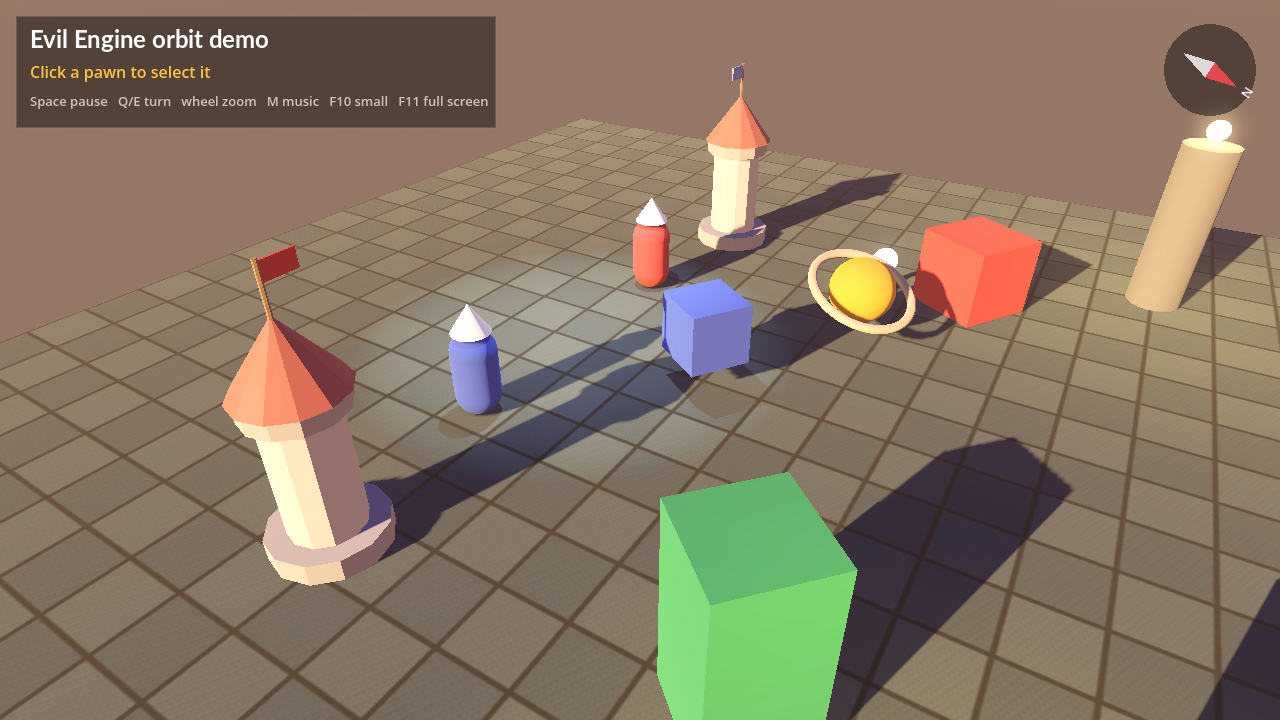
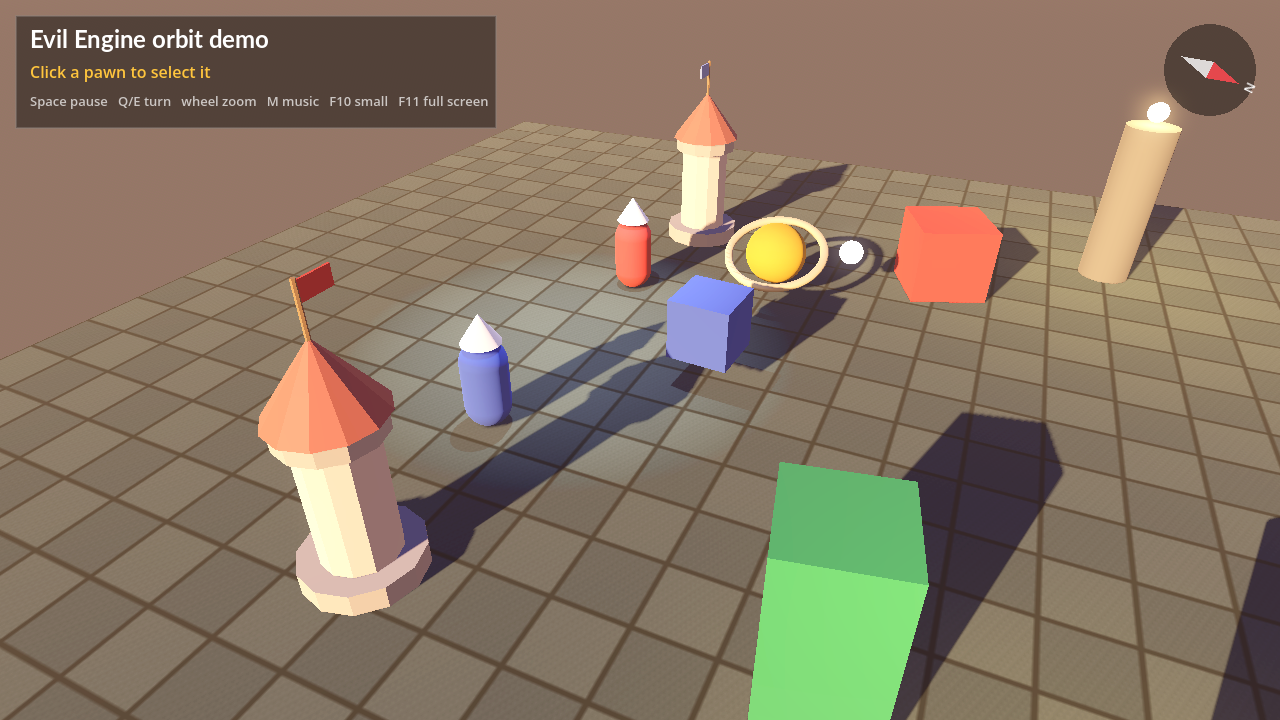
R27: no effects on characters, only what Blender made (0.4.2)

Changed region(s): [[0.0, 0.0917, 1.0, 1.0], [0.9375, 0.0917, 0.9688, 0.1222], [0.125, 0.9167, 0.1562, 0.9472]]

diff --git a/src/10_Characters/Evil.Engine.Characters/Look/CharacterLook.cs b/src/10_Characters/Evil.Engine.Characters/Look/CharacterLook.cs
@@ -1,5 +1,4 @@
 using Godot;
-using Vector3 = System.Numerics.Vector3;
 
 namespace Evil.Engine.Characters;
 
@@ -11,8 +10,6 @@ internal sealed class CharacterLook
     private readonly SurfaceShader _shader;
     private readonly PictureBook _pictures;
     private IReadOnlyDictionary<string, string> _swaps = NoSwaps;
-    private Vector3 _washColour;
-    private float _wash;
 
     public CharacterLook(SurfaceShader shader, PictureBook pictures)
     {
@@ -39,7 +36,6 @@ internal sealed class CharacterLook
         {
             SurfaceLook surface = new SurfaceLook(part.Surfaces[index], _shader.Native, _pictures);
             surface.Show(_swaps);
-            surface.Wash(_washColour, _wash);
             mesh.SetSurfaceOverrideMaterial(index, surface.Material);
             surfaces.Add(surface);
         }
@@ -57,19 +53,6 @@ internal sealed class CharacterLook
             foreach (SurfaceLook surface in surfaces)
             {
                 surface.Show(swaps);
-            }
-        }
-    }
-
-    public void Wash(Vector3 colour, float amount)
-    {
-        _washColour = colour;
-        _wash = amount;
-        foreach (List<SurfaceLook> surfaces in _painted.Values)
-        {
-            foreach (SurfaceLook surface in surfaces)
-            {
-                surface.Wash(colour, amount);
             }
         }
     }

diff --git a/tests/Evil.Engine.GodotTests/Characters/CharacterTests.cs b/tests/Evil.Engine.GodotTests/Characters/CharacterTests.cs
@@ -130,22 +130,6 @@ internal static class CharacterTests
     }
 
     [Test]
-    public static void AWashReachesEverySurfaceAlsoWhatIsPutOnLater()
-    {
-        ContentLibrary content = new ContentLibrary(new PuppetPackage().Root);
-        using Stage stage = Stage.Open();
-        CharacterModel puppet = stage.Root.Add(content.Character("puppet"));
-        NodeSearch search = new NodeSearch(puppet);
-        puppet.Wash(Color.Gray, 0.75f);
-        Check.Near(0.75f, search.Material("body").GetShaderParameter("wash").AsSingle(), "the skin");
-        puppet.Wear("hat");
-        Check.Near(0.75f, search.Material("hat").GetShaderParameter("wash").AsSingle(), "the hat put on afterwards");
-        puppet.Wash(Color.Gray, 0f);
-        Check.Near(0f, search.Material("hat").GetShaderParameter("wash").AsSingle(), "and off again");
-        content.Close();
-    }
-
-    [Test]
     public static void TwoCharactersFromOnePackageAreTheirOwn()
     {
         ContentLibrary content = new ContentLibrary(new PuppetPackage().Root);

diff --git a/src/10_Characters/Evil.Engine.Characters/CharacterModel.cs b/src/10_Characters/Evil.Engine.Characters/CharacterModel.cs
@@ -1,7 +1,5 @@
-using Evil.Engine.Platform;
 using Evil.Engine.World;
 using Godot;
-using Color = Evil.Engine.Core.Color;
 
 namespace Evil.Engine.Characters;
 
@@ -82,11 +80,5 @@ public sealed class CharacterModel : WorldObject
         ArgumentException.ThrowIfNullOrWhiteSpace(piece);
         RequireAlive();
         _wardrobe.TakeOff(piece);
-    }
-
-    public void Wash(Color colour, float amount)
-    {
-        Godot.Color linear = colour.ToGodot().SrgbToLinear();
-        _look.Wash(new System.Numerics.Vector3(linear.R, linear.G, linear.B), Math.Clamp(amount, 0f, 1f));
     }
 }

diff --git a/src/10_Characters/Evil.Engine.Characters/Look/SurfaceLook.cs b/src/10_Characters/Evil.Engine.Characters/Look/SurfaceLook.cs
@@ -41,10 +41,4 @@ internal sealed class SurfaceLook
             paint.Show(swaps);
         }
     }
-
-    public void Wash(Vector3 colour, float amount)
-    {
-        Material.SetShaderParameter("wash_color", colour.ToGodot());
-        Material.SetShaderParameter("wash", amount);
-    }
 }

diff --git a/documents/API/Characters.md b/documents/API/Characters.md
@@ -17,15 +17,21 @@ detective.Clips.Play("guard-enter");
 detective.Clips.Then("guard");
 ```
 
-![[r25-characters.png]]
+![[r27-characters.png]]
 
-Seven looks from four packages: three stances from the clips (guarding, standing, sheltered), one washed grey.
+Seven looks from four packages, three stances from the clips (guarding, standing, sheltered). Every colour is the
+package's own.
 
-> [!note] No shading yet
-> Since 0.4.1 a character is drawn in the plain colours and pictures of its package: no light and shade on it, no
-> outline. The owner: "just load model, shading is for later". The package already carries what shading needs
-> (a shade colour per surface, the rim, the outline's colour and width), and the engine reads and checks it. The
-> shading that 0.4.0 had (two tones, an outline, a light of its own for characters) is at tag `v0.4.0`.
+> [!note] Only what Blender made
+> The owner: "I just want the original models we made in Blender load in, that's all. Not any extra effects."
+> A character is drawn in the plain colours and pictures of its package. No light changes it, and since 0.4.2 no
+> code can either: `Wash`, which faded a character toward a colour, is gone. A game that wants a character to look
+> different asks for it in Blender.
+>
+> No shading and no outline yet (owner: "just load model, shading is for later"). The package already carries what
+> shading needs (a shade colour per surface, the rim, the outline's colour and width), and the engine reads and
+> checks it. The shading that 0.4.0 had (two tones, an outline, a light of its own for characters) is at tag
+> `v0.4.0`.
 
 ## CharacterModel
 
@@ -41,7 +47,6 @@ character of its own; two from one package share the files, not the clothing or 
 | `WearOutfit(outfit)` | puts on every piece of a named outfit |
 | `TakeOff(piece)`, `Worn` | takes a piece off; what it wears now |
 | `Clips` | the animations on its rig, see below |
-| `Wash(colour, amount)` | fades the whole character toward a colour, 0 to 1: a fallen fighter turns grey |
 | `Source` | where it was loaded from |
 
 Clothing is not a paint job and not part of the body. Each piece is its own file, skinned to the same bones, and
@@ -93,9 +98,13 @@ project, from the Blender files of the saved models.
 | material for a colour with painted layers | a small shader of its own: one colour, an inside colour, two painted layers with their weights; no light in it |
 | face pictures that follow an animation | reads the clip's faces and swaps the pictures |
 
-The colours come out the same on Godot's three renderers (Forward+, Mobile, Compatibility); compared side by side.
-A character still throws its shadow on the ground in the scene's `Sun`. Parts that exist only to throw a shadow
-onto the character itself are not drawn.
+A pixel of a surface is the colour its package names, whatever the scene's light, fog or time of day. Measured on
+the strongman in the picture above: the leotard is `#BF3438` on screen and `#BE3438` in Blender's own picture of
+him, the skin `#F9E4D4` in both. A scene that changes the whole picture afterwards (a tone mapping other than
+`Linear`, glow, fog) still changes a character with it, so a scene that must show the colours as made uses none of
+those. The colours come out the same on Godot's three renderers (Forward+, Mobile, Compatibility); compared side by
+side. A character still throws its shadow on the ground in the scene's `Sun`. Parts that exist only to throw a
+shadow onto the character itself are not drawn.
 
-Not built: shading and the outline, showing an expression on demand (the packages carry them, only clips use
+Not built: shading and the outline, effects on a character, showing an expression on demand (the packages carry them, only clips use
 them), physics on hair or cloth, weapons in the hand.

diff --git a/documents/Decisions.md b/documents/Decisions.md
@@ -77,3 +77,4 @@ Why the engine is built the way it is. Change a decision here first, then the co
 | 62 | **Covered skin is left out of the skin's triangle list**, by a patch number on every triangle | nothing can poke through, and the skin under a coat is never drawn | trusting the gap between skin and cloth |
 | 63 | **Characters have a light of their own**, `KeyLight`, on a render layer of its own | a night scene's moon is dim, steep and shadowed by houses; the look was designed for one clear light from the front | lighting characters with the scene's sun |
 | 64 | **No shading on characters for now** (owner: "just load model, shading is for later"): 0.4.1 took decisions 59, 60 and 63 out again and draws the package's plain colours | the owner steers the look and wants the import judged first; the package keeps the shading data, the code is at tag `v0.4.0` | leaving shading in that was not asked for |
+| 65 | **Code has no effect on a character's look** (owner: "I just want the original models we made in Blender load in, that's all. Not any extra effects"): 0.4.2 took `Wash` out | Blender designs, code uses; a tint from code made a character look wrong "for no reason" to the one who designed it | keeping a tint for fallen fighters |

diff --git a/documents/LOOP.md b/documents/LOOP.md
@@ -353,3 +353,8 @@ The second loop is done: R13 to R24 all ticked. Left: R12 (the owner's PC, waits
   drawn in the plain colours and pictures of its package, the same on all three renderers (compared side by side).
   Packages, clothing, clips, faces and `Wash` are as in 0.4.0. 123 Godot tests. The shading is at tag `v0.4.0`.
   ![[r25-characters.png]]
+- 2026-11-19 R27: **Only what Blender made (0.4.2).** The owner on the picture above: "the strong man, for example,
+  is grayed out for no reason. I just want the original models we made in Blender load in, that's all. Not any
+  extra effects." The grey was `Wash`, shown off on him. `Wash` is out of the API, the shader and the tests; nothing
+  in code changes a character's colours now. Measured on the new picture: the leotard is `#BF3438` on screen and
+  `#BE3438` in Blender's own picture, the skin `#F9E4D4` in both. 122 Godot tests. ![[r27-characters.png]]

diff --git a/documents/Getting Started/Make a Game.md b/documents/Getting Started/Make a Game.md
@@ -37,7 +37,7 @@ Godot 4.7.2 .NET. One command makes it.
    ```
 
    The first line the game prints says it started, before the first scene enters, for example
-   `Evil Engine 0.4.1: "Tile Skirmish" 1280x720, first scene MapScene, content res://content`. No line means the
+   `Evil Engine 0.4.2: "Tile Skirmish" 1280x720, first scene MapScene, content res://content`. No line means the
    engine never started. The import is needed once, and again after new content. To take screenshots
    or click with `xdotool`, see "Driving a game on the server" in [[Testing]].
 
@@ -117,7 +117,7 @@ internal sealed class MapScene : Scene
   </PropertyGroup>
   <Import Project="CodeStyle.targets" />
   <ItemGroup>
-    <PackageReference Include="Evil.Engine" Version="0.4.1" />
+    <PackageReference Include="Evil.Engine" Version="0.4.2" />
   </ItemGroup>
 </Project>
 ```

diff --git a/documents/Home.md b/documents/Home.md
@@ -5,14 +5,14 @@ aliases: [Start here, Index]
 
 # Evil Engine
 
-Our own game engine SDK for C#, version **0.4.1**: twelve class libraries over **Godot 4.7.2 (.NET)** for a full 3D
+Our own game engine SDK for C#, version **0.4.2**: twelve class libraries over **Godot 4.7.2 (.NET)** for a full 3D
 game. Godot renders, plays sound and runs the window; a game talks only to our API. It sees Evil Engine types and
 `System.Numerics` vectors, never Godot's. The idea it started from is still at the heart: things in a **group**
 move, turn and scale together ([[Grouped Transforms]]).
 
 > [!tip] New here?
 > `dotnet new evil-game` makes a game in one command: [[Make a Game]]. [[Run the Sample]] shows everything the engine
-> does; [[Changes]] says what is new in 0.4.1.
+> does; [[Changes]] says what is new in 0.4.2.
 
 ![[r10-audio.png]]
 

diff --git a/documents/Changes.md b/documents/Changes.md
@@ -1,12 +1,23 @@
 ---
 tags: [release, changes]
-aliases: [Release notes, What changed, 0.4.1, 0.4.0, 0.3.0]
+aliases: [Release notes, What changed, 0.4.2, 0.4.1, 0.4.0, 0.3.0]
 ---
 
 # Changes
 
 What a game author needs to know between versions. The why behind each change is in [[Decisions]], the rounds that
 made them in [[LOOP]].
+
+## 0.4.2 (November 2026)
+
+**Removed**
+
+| What | Instead |
+|---|---|
+| `CharacterModel.Wash(colour, amount)` | nothing: a character shows what its package holds. A different look is made in Blender |
+
+The owner saw a character greyed by `Wash` and asked for the models as made in Blender, "not any extra effects".
+Everything else is as in 0.4.1.
 
 ## 0.4.1 (November 2026)
 
